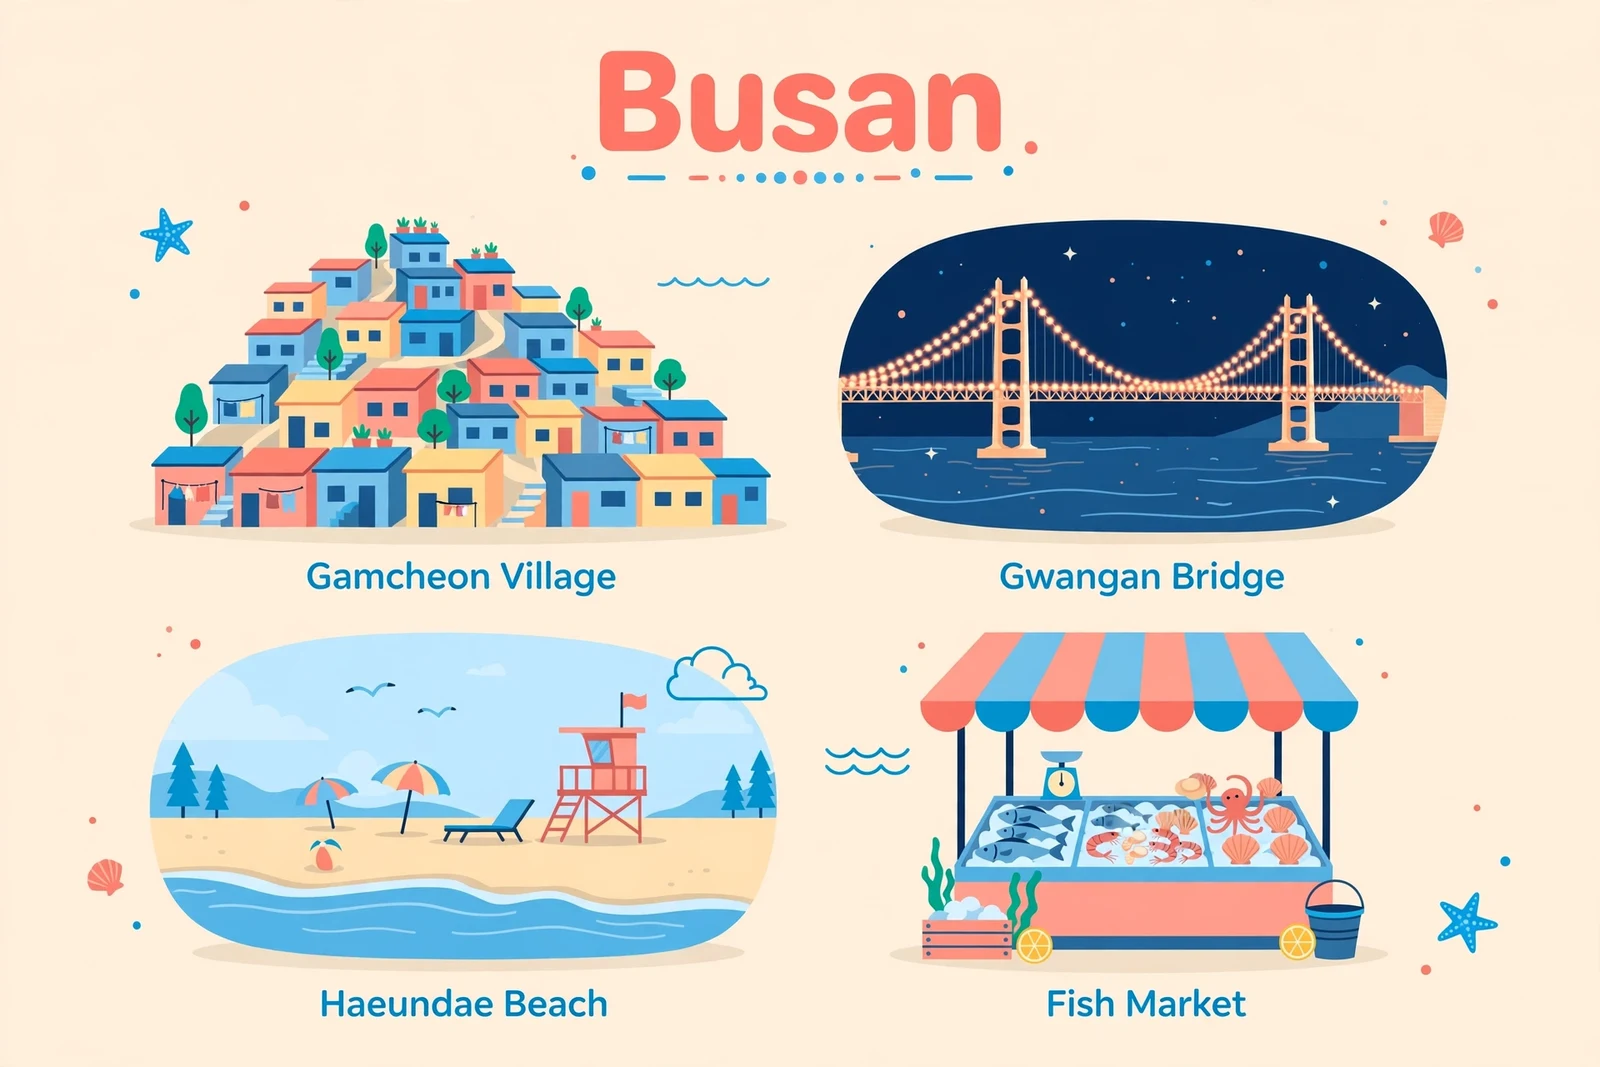
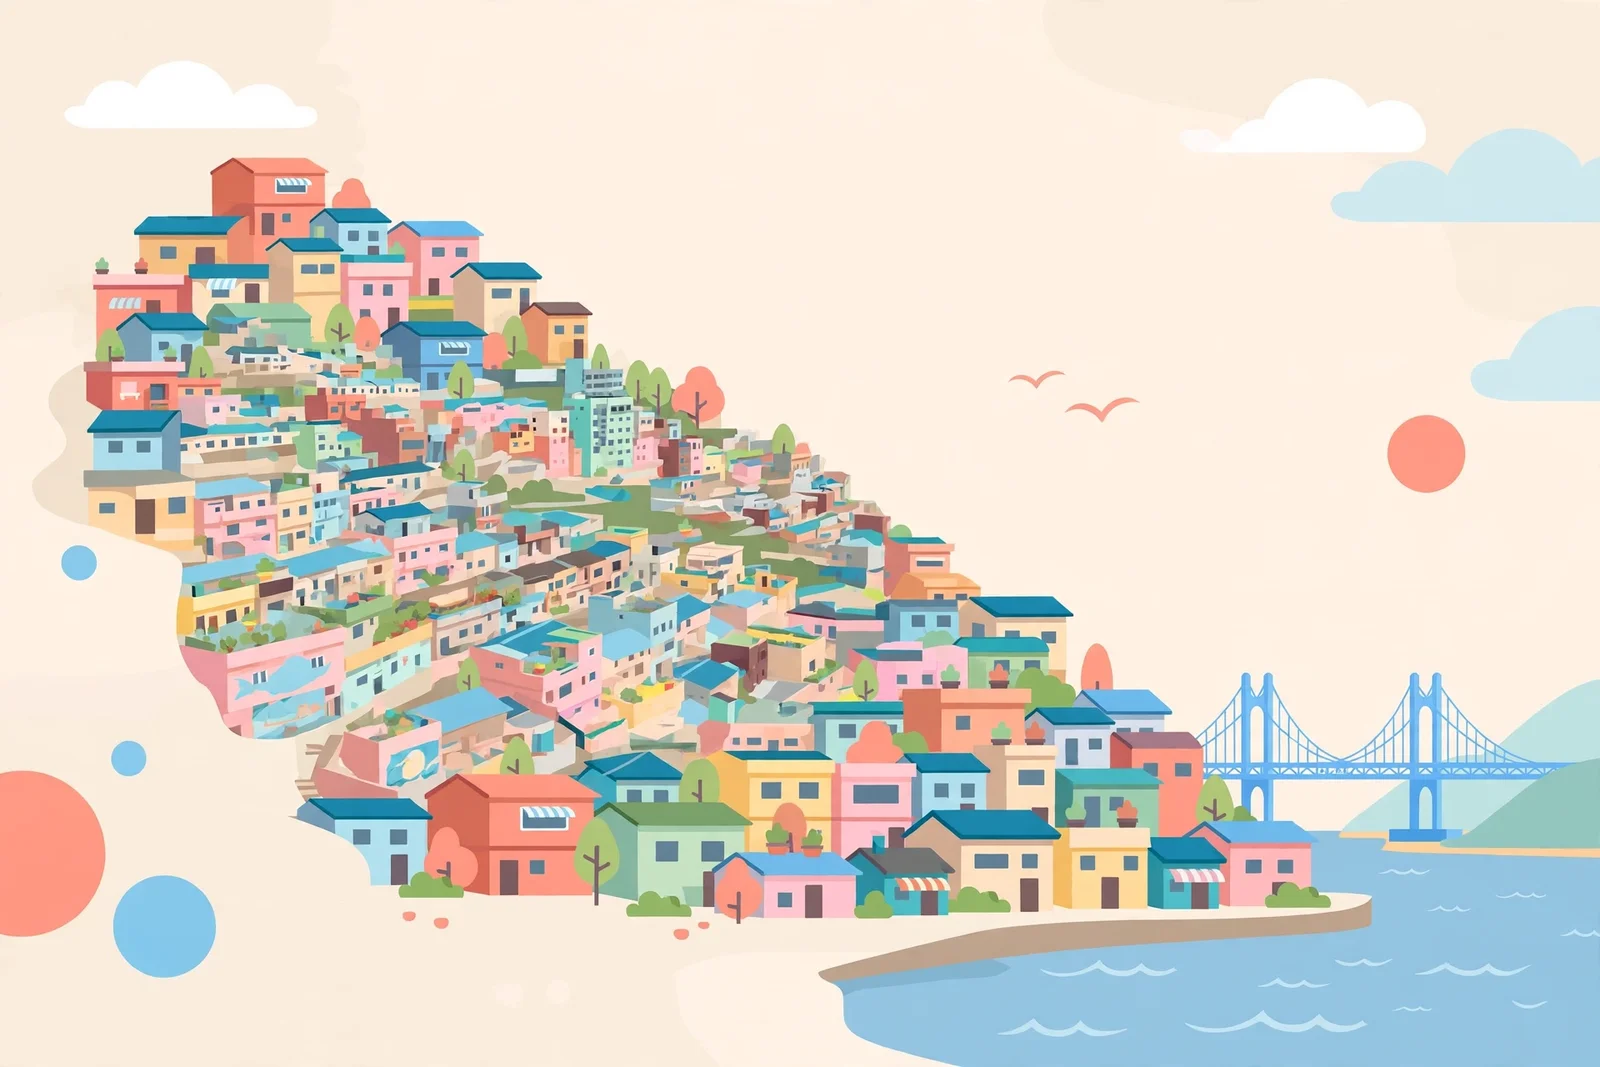
Hubs: replace Busan mood illustration (Gamcheon village + Gwangan Bridge, text-free)
- static/images/hubs/busan-mood.webp: 1600x1067, 102,416B, MD5 f4445679b3aa4bbb76eed8336f0909b9
- CREDITS.md: busan-mood.webp row updated to the new scene (2026-11-20 redesign)
- photo-dims.yaml unchanged (still 1600x1067)
- hugo --minify: 0 errors

diff --git a/static/images/photos/CREDITS.md b/static/images/photos/CREDITS.md
@@ -149,7 +149,7 @@ Flat vector guidebook illustrations (GPT image generation, 2026-11-19). Not phot
 | home-banner-mobile.webp | Home hero banner, mobile: N Seoul Tower top centre, palace middle, Han River cruise boat bottom, cherry blossom corners. No text in the art. | 1080x1200 | AI-generated | - | Media image generation, 2026-11-19 (hero revamp). Generated 1440x1600 (exact 9:10), Lanczos resized. |
 | home-banner-mobile@2x.webp | Same mobile banner art, 2x | 2160x2400 | AI-generated | - | Media image generation, 2026-11-19 (hero revamp). Same generation as home-banner-mobile.webp, Lanczos upscaled 1.5x (flat vector, no detail loss). |
 | seoul-mood.webp | Seoul hub mood: Gyeongbokgung palace, N Seoul Tower, Han River, street food stall | 1600x1067 | AI-generated | - | GPT image generation, 2026-11-19 |
-| busan-mood.webp | Busan hub mood: Haeundae beach, Gwangan Bridge at night, Gamcheon hillside houses, fish market | 1600x1067 | AI-generated | - | GPT image generation, 2026-11-19 |
+| busan-mood.webp | Busan hub mood: Gamcheon Culture Village hillside of pastel houses as the main subject, with Gwangan Bridge over the sea on the right. No text in the art | 1600x1067 | AI-generated | - | GPT image generation, 2026-11-20 (redesign, replaces the 2026-11-19 four-panel version). Generated 1600x1067, webp q=85. Illustration: AI-generated |
 | incheon-mood.webp | Incheon hub mood: Chinatown red gate, old port with a ship, seaside promenade, fairy tale village houses | 1600x1067 | AI-generated | - | GPT image generation, 2026-11-19 |
 | jeju-mood.webp | Jeju hub mood: Hallasan, Seongsan cone by the sea, orange grove, black sand beach | 1600x1067 | AI-generated | - | GPT image generation, 2026-11-19 |
 | gyeongju-mood.webp | Gyeongju hub mood: Bulguksa temple, royal tombs, Wolji Pond pavilion at night | 1600x1067 | AI-generated | - | GPT image generation, 2026-11-19 |
